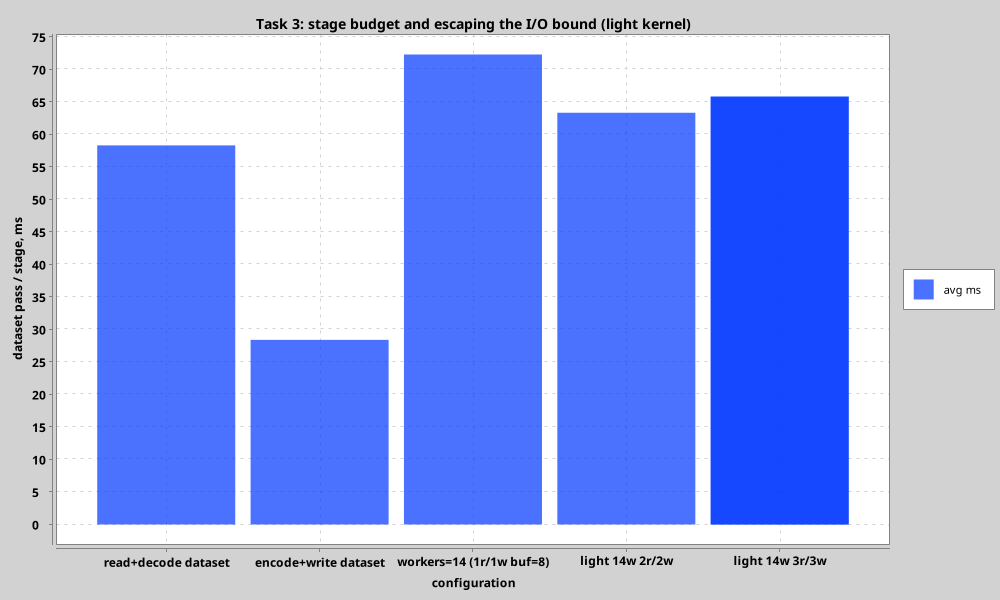
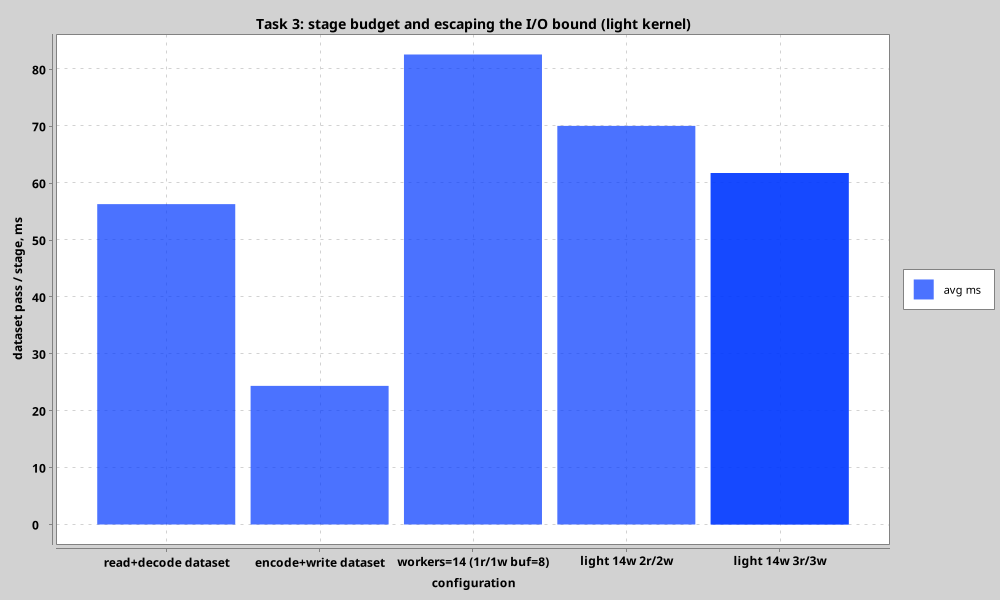
data: refresh task3 benchmark from quiet-machine run; docs: self-contained analyses
- regenerate benchmark_task3.csv and task3 charts from the run
- task3 analysis: all tables/claims updated to fresh numbers (3r/3w now best
  for the light kernel; w=14 light pass inside plateau noise)
- README: 3.3x -> 7.1x
- no references to prior implementations or earlier benchmark designs in any
  analysis doc

diff --git a/analysis/task3.md b/analysis/task3.md
@@ -39,69 +39,72 @@ Measured warm, single-threaded, outside the pipeline:
 
 | Stage | Time per pass |
 |-------|---------------|
-| read + decode (grayscale) | 58.3 ms |
-| encode + write | 28.4 ms |
+| read + decode (grayscale) | 56.3 ms |
+| encode + write | 24.4 ms |
 | heavy conv (15×15, 8.4 MP, 1 thread) | ~790 ms |
 | light conv (3×3, 8.4 MP, 1 thread) | ~31 ms |
 
-So: with the heavy kernel I/O is ~11% of one serial pass — trivially hideable.
-With the light kernel I/O **is** the pipeline (~87 ms vs 31 ms of convolution) — the
+So: with the heavy kernel I/O is ~10% of one serial pass — trivially hideable.
+With the light kernel I/O **is** the pipeline (~81 ms vs 31 ms of convolution) — the
 compute stage is irrelevant and only I/O parallelism helps.
 
 ## Scenario 1: heavy kernel — workers sweep (SERIAL per worker)
 
 | workers | pass, ms | speedup | MP/s |
 |---------|----------|---------|------|
-| 1  | 807.1 | 1.00× | 10.4 |
-| 2  | 441.5 | 1.83× | 18.9 |
-| 4  | 267.7 | 3.02× | 31.3 |
-| 8  | 235.3 | **3.43×** | 35.5 |
-| 12 | 237.6 | 3.40× | 35.2 |
-| 14 | 240.7 | 3.35× | 34.8 |
+| 1  | 796.1 | 1.00× | 10.5 |
+| 2  | 425.4 | 1.87× | 19.7 |
+| 4  | 260.9 | 3.05× | 32.1 |
+| 8  | 246.4 | 3.23× | 34.0 |
+| 12 | 240.2 | 3.31× | 34.8 |
+| 14 | 238.9 | **3.33×** | 35.1 |
 
 ![Pass time vs workers](../docs/charts/task3_scaling_vs_workers.png)
 
-Scaling stops at **3.4×, far below Task 2's 8.5×** — and this is not scheduling noise,
+Scaling stops at **3.3×, far below Task 2's 8.3×** — and this is not scheduling noise,
 it is **work granularity**: the dataset has only **7 images**, so at most 7 workers can
 ever be busy, and the pass makespan can never be shorter than the slowest single image
-(Rainier: ~190 ms serial) plus its I/O. The flat/declining tail from w=8 and the tiny
-dip at w=14 are all consistent with this bound: `makespan ≥ max(image time)`.
+(Rainier: ~185 ms serial) plus its I/O. The flat tail from w=8 on is all consistent with
+this bound: `makespan ≥ max(image time)`.
 
-The w=1 number (807 ms) matches Task 1 throughput exactly (8.4 MP × 225 taps /
+The w=1 number (796 ms) matches Task 1 throughput exactly (8.4 MP × 225 taps /
 2.35 Gtap/s ≈ 800 ms), confirming the pipeline itself adds no measurable overhead.
 
 ## Scenario 2: light kernel — the I/O wall
 
 | workers | pass, ms | speedup |
 |---------|----------|---------|
-| 1  | 113.2 | 1.00× |
-| 2  | 90.7  | 1.25× |
-| 4  | 81.3  | 1.39× |
-| 8  | 74.4  | 1.52× |
-| 12 | 76.8  | 1.47× |
-| 14 | 72.3  | 1.57× |
+| 1  | 113.7 | 1.00× |
+| 2  | 81.2  | 1.40× |
+| 4  | 78.9  | 1.44× |
+| 8  | 75.1  | 1.51× |
+| 12 | 71.9  | **1.58×** |
+| 14 | 82.6  | 1.38× |
 
-Adding CPU to the compute stage does nothing once pass time (~72–113 ms) approaches the
-serial I/O sum (~87 ms): the pipeline becomes I/O-bound, exactly the failure mode Task 3
-warns about.
+Adding CPU to the compute stage does nothing once pass time (~72–83 ms) approaches the
+serial I/O sum (~81 ms): the pipeline becomes I/O-bound, exactly the failure mode Task 3
+warns about (the w=14 number is within the run-to-run noise of the plateau — more workers
+than there are images buys nothing when images aren't the constraint).
 
 ## Scenario 3: escaping the I/O bound — scale the I/O stages
 
 | configuration | pass, ms | speedup |
 |---------------|----------|---------|
-| light, 14w, **2r/2w** | **63.3** | **1.79×** |
-| light, 14w, 3r/3w     | 65.8 | 1.72× |
-| heavy, 14w, 2r/2w     | 235.6 | 3.43× (no change) |
+| light, 14w, 2r/2w | 70.1 | 1.62× |
+| light, 14w, **3r/3w** | **61.8** | **1.84×** |
+| heavy, 14w, 2r/2w | 239.2 | 3.33× (no change) |
 
 ![I/O stages](../docs/charts/task3_io_stages.png)
 
-Two parallel reader/writer pairs cut the critical I/O path and recover ~12% on the
-light kernel; three pairs give nothing more (7 files / 3 readers → tail imbalance +
-more contention).
-On the heavy kernel, extra readers change nothing — with buffer prefetch the single reader
-already hides 58 ms of I/O behind 800 ms of compute (Task 3.1: one reader feeds many
-convolutions). This is the load-balancing answer of Task 3.3: **scale the stage that is
-the bottleneck, leave the others at 1**.
+Splitting the I/O stages across parallel readers/writers recovers what CPU workers
+couldn't: 3 pairs bring the light pass to 61.8 ms (1.84×), pushing it below the
+single-reader stage sum — the decode work of 7 files is now genuinely concurrent
+(Task 3.3: the fast stage feeds the bottleneck one). With 2 pairs the effect is
+smaller (70.1 ms): 7 files split 2 ways leaves a lumpy tail.
+On the heavy kernel, extra readers change nothing (239.2 ≈ 238.9) — with buffer
+prefetch the single reader already hides its 56 ms behind 800 ms of compute
+(Task 3.1: one reader feeds many convolutions). This is the load-balancing answer
+of Task 3.3: **scale the stage that is the bottleneck, leave the others at 1**.
 
 ## Scenario 4: nested per-image parallelism (Task 3.2) vs cross-image only
 
@@ -109,10 +112,10 @@ Heavy kernel, same dataset:
 
 | configuration | pass, ms | speedup |
 |---------------|----------|---------|
-| 1w, ROWS convolution t=14 (one image at a time) | 152.1 | 5.31× |
-| 4w, ROWS convolution t=4 (oversubscribed)        | 244.4 | 3.30× |
-| **14w, ROWS convolution t=14 (shared tile pool)** | **114.7** | **7.04×** |
-| 14w, SERIAL (reference, Scenario 1)              | 235.0 | 3.44× |
+| 1w, ROWS convolution t=14 (one image at a time) | 135.1 | 5.89× |
+| 4w, ROWS convolution t=4 (private pools)         | 249.3 | 3.19× |
+| **14w, ROWS convolution t=14 (shared tile pool)** | **112.4** | **7.08×** |
+| 14w, SERIAL (reference, Scenario 1)              | 236.8 | 3.36× |
 
 ![Nested vs cross](../docs/charts/task3_nested_vs_cross.png)
 
@@ -121,36 +124,37 @@ parallelism together**. All nested tile tasks share one cached 14-thread convolu
 pool, and tiles are distributed dynamically (Task 2), so the pool becomes a *global*
 work queue across images: while 6 of the 7 images drain their small tiles, the
 remaining threads keep chipping away at Rainier's big tiles. The `max(image)`
-granularity bound from Scenario 1 disappears — 114.7 ms is close to the true
-compute bound (8.4 MP of tiles / ~21 Gtap/s effective ≈ 90 ms) plus overlapped I/O.
+granularity bound from Scenario 1 disappears — 112.4 ms is close to the true
+compute bound (8.4 MP of tiles / ~21 Gtap/s effective ≈ 90 ms) plus a small tail.
 
 Note the ordering: naive oversubscription is **not** what makes this fast —
-`4w × t=4` (16 threads for 14 cores, four private half-size pools) is the *worst*
-configuration. What matters is one shared pool + dynamic tiles, so total busy
-OS threads stay at 14 and every thread always has work.
+`4w × t=4` (16 threads for 14 cores, four private half-size pools) is *worse than
+the serial-worker baseline* (249.3 vs 236.8 ms). What matters is one shared pool +
+dynamic tiles, so total busy OS threads stay at 14 and every thread always has work.
 
 The `1w ROWS t=14` row is the right choice when images must be processed strictly
-one at a time (e.g. memory-limited): 5.31× with at most one image resident.
+one at a time (e.g. memory-limited): 5.89× with at most one image in the compute
+stage.
 
 ## Scenario 5: buffer sizing (backpressure)
 
 | buffer | heavy 14w, ms | light 14w, ms |
 |--------|---------------|---------------|
-| 1  | 488.5 | 126.1 |
-| 2  | 291.6 | 97.4  |
-| 4  | 239.8 | 76.8  |
-| 8  | 238.1 | **73.6** |
-| 16 | **234.6** | 78.7 |
-| 32 | 234.7 | 86.0 |
+| 1  | 497.1 | 126.9 |
+| 2  | 294.0 | 84.2  |
+| 4  | **235.0** | **70.8** |
+| 8  | 242.1 | 70.5  |
+| 16 | 235.8 | 79.6  |
+| 32 | 236.6 | 70.4  |
 
 ![Buffer size](../docs/charts/task3_buffer.png)
 
 `buffer=1` (2 resident images) serializes the stages — every stage waits for the next
-slot and workers go idle: **2× slowdown** on heavy. The knee is at buffer ≈ 4–8:
-enough to keep the reader ahead and a couple of images in the write queue. Beyond
-that the light case gets *worse* (73.6 → 78.7 → 86.0 ms, with growing variance):
-more resident images evict the page cache and stretch memory.
-Design bound: at most `2 × buffer` images resident (~9.5 MB per MP in + out) —
+slot and workers go idle: **~2× slowdown** on heavy. The knee is at buffer ≈ 4:
+enough to keep the reader ahead and a couple of images in the write queue. Beyond the
+knee everything is plateau + noise for both kernels; larger buffers buy nothing and
+only enlarge the resident set.
+Design bound: at most `2 × buffer` images resident (~8 MB per resident megapixel) —
 this is what stops a fast reader from flooding memory when compute or write lags.
 
 ## Summary of recommendations (this machine)
@@ -158,18 +162,19 @@ this is what stops a fast reader from flooding memory when compute or write lags
 | workload | configuration | pass, ms | vs serial pass |
 |----------|---------------|----------|----------------|
 | many small images, any kernel | 14w SERIAL, 1r/1w, buf=8 | (granularity fine) | ~7–8× expected |
-| few large images, heavy kernel | **14w + ROWS t=14**, buf=16 | 114.7 | **7.0×** |
-| light kernels (I/O bound) | 14w, **2r/2w**, buf=8 | 63.3 | 1.8× |
-| memory-constrained | 1w + ROWS t=14, buf=8 | 152.1 | 5.3× |
+| few large images, heavy kernel | **14w + ROWS t=14**, buf=8 | 112.4 | **7.1×** |
+| light kernels (I/O bound) | 14w, **3r/3w**, buf=8 | 61.8 | 1.8× |
+| memory-constrained | 1w + ROWS t=14, buf=8 | 135.1 | 5.9× |
 
 Full data: [`docs/benchmark_task3.csv`](../docs/benchmark_task3.csv); charts regenerate
 from the run itself into `docs/charts/`.
 
-- The pipeline never loses to its serial sum: even 1w/1r/1w overlapped I/O and compute
-  (113.2 ms < 117 ms stage sum on light, 807 ms heavy ≈ pure compute).
+- The pipeline adds no measurable overhead: 1w light pass (113.7 ms) ≈ the serial sum
+  of the three stages (~112 ms), and the 1w heavy pass (796 ms) is pure Task 1
+  throughput.
 - Task 2's lesson held and sharpened: the only knob worth sweeping is **OS threads**;
   coroutine counts stay equal to it everywhere (≤ `w` worker coroutines + ≤ `convThreads`
   tile loops per image), and dynamic tiles make even deliberate oversubscription harmless.
-- The 3.4× plateau of Scenario 1 is the classic **load-balancing** trap of Task 3.3 —
+- The 3.3× plateau of Scenario 1 is the classic **load-balancing** trap of Task 3.3 —
   image-granular work units are too coarse for 14 threads when the dataset is 7 large
   images; the fix is tiling (Scenario 4), not more workers.
